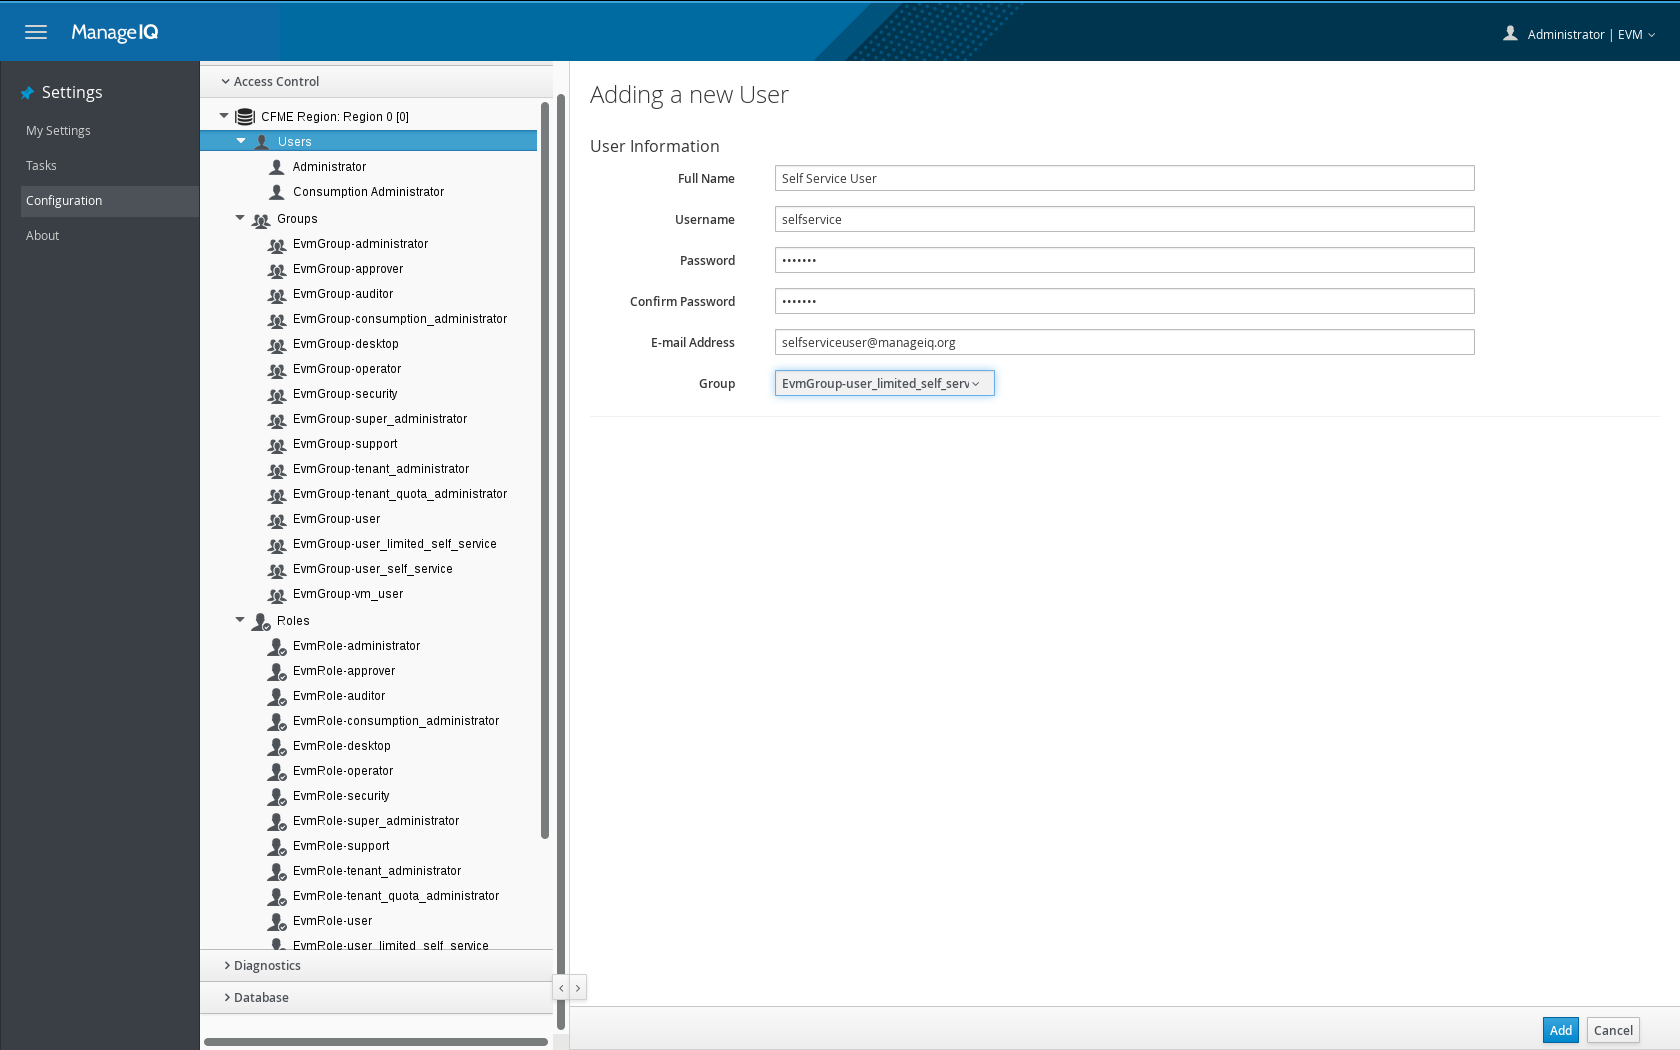
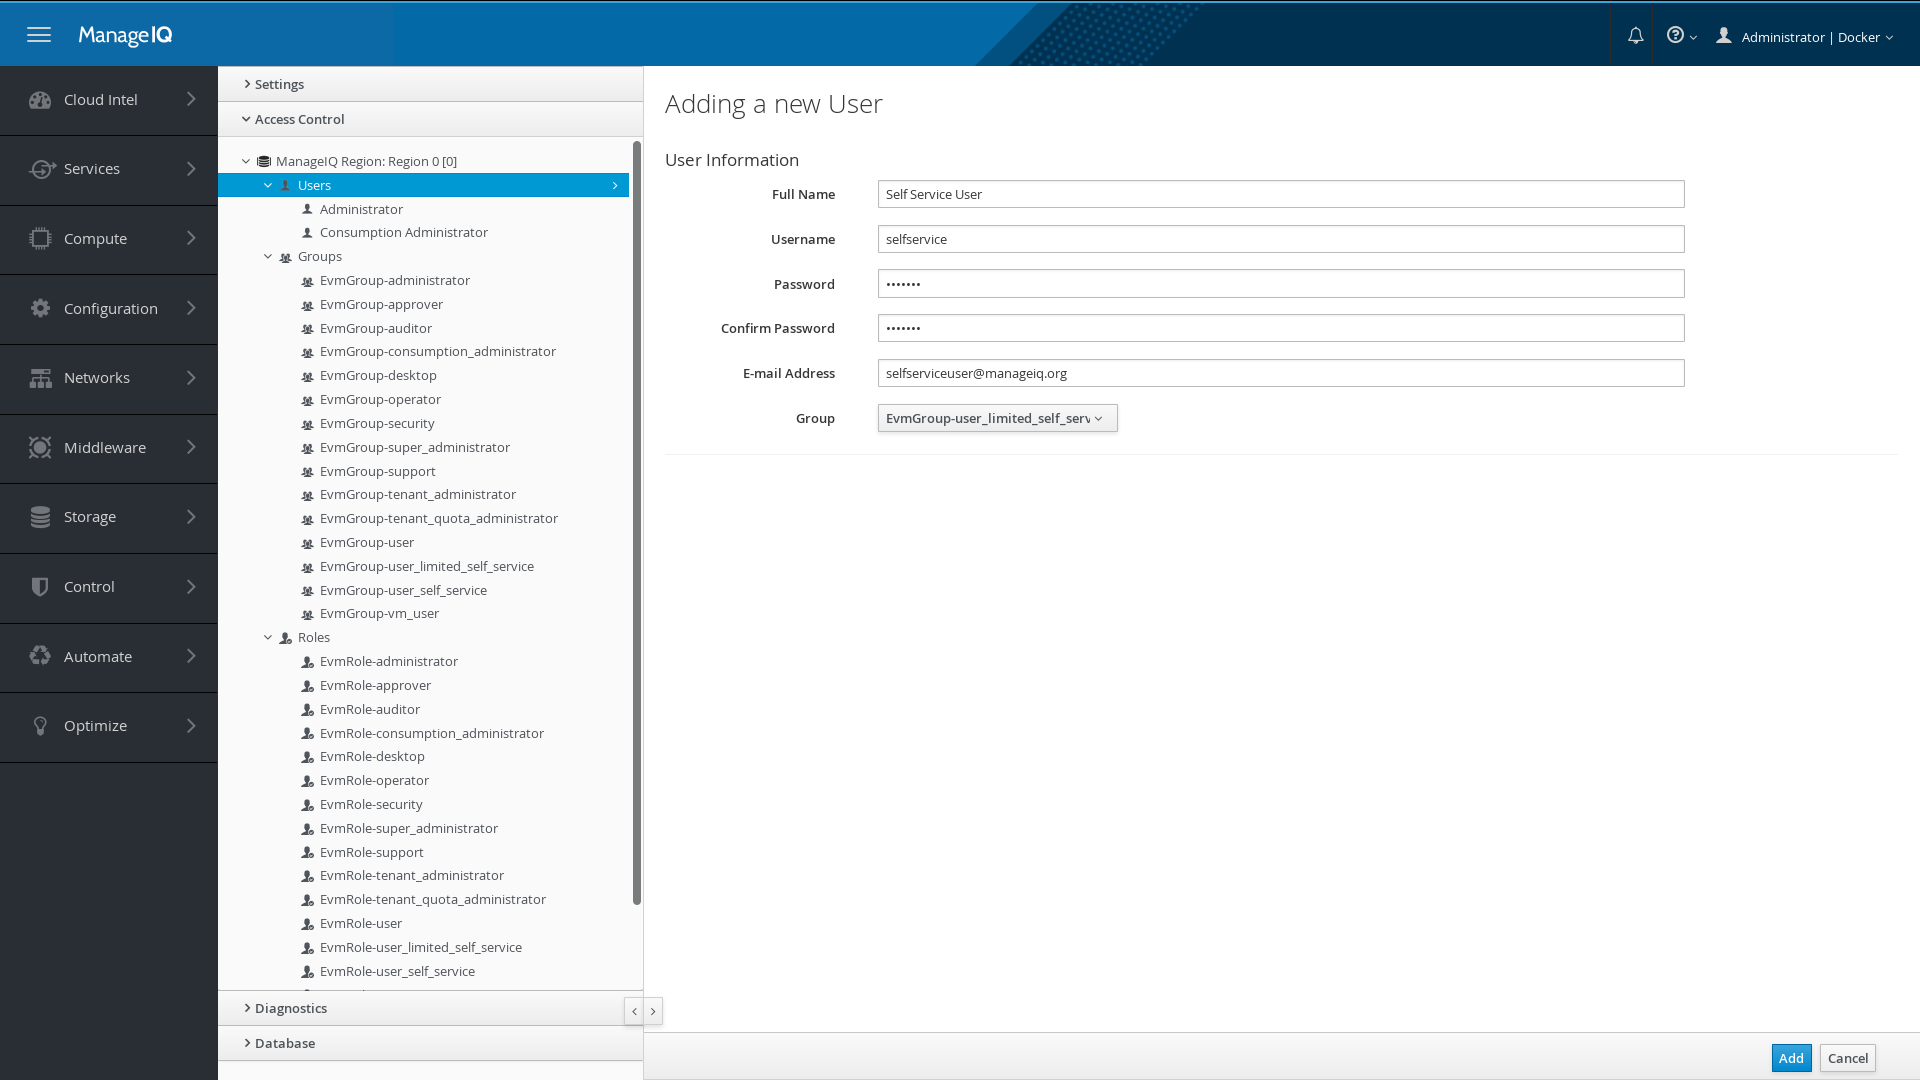
new images and self service description in guides

diff --git a/site/docs/get-started/create-service-item.md b/site/docs/get-started/create-service-item.md
@@ -3,6 +3,8 @@ layout: doc_page
 title: Create A Self-service Catalog Item
 ---
 
+## Introduction ##
+
 Go to ***Services → Catalogs***.
 
 Currently there are no catalogs, but we will be creating a new one
@@ -13,7 +15,9 @@ now. We need a few things:
 -   A catalog to show the user
 -   A catalog item within that catalog to put all together
 
-### Creating the dialog####
+## Using the service catalog to create a service ##
+
+### Creating the dialog ###
 
 Let’s start creating the dialog. Dialogs are part of Automate, so go to
 ***Automate → Customization*** and select ***Service Dialogs*** in the
@@ -26,7 +30,12 @@ Choose a name for it
 Add a Tab, a Box and a Element to your Dialog using the + symbol on a
 circle on top.
 
-### Creating a catalog####
+We will be adding a checkbox that prints "Are you sure?" with a checkbox, but we won't be doing anything with the answer...
+
+![screenshot0044](/assets/images/docs/screenshot_0044.png){:.img-responsive}
+
+
+### Creating a catalog ###
 
 You need a catalog for the user to choose from it. Let’s create a
 catalog with a basic name and description
@@ -37,13 +46,18 @@ Press ***Configuration → Add a New Catalog*** and fill the fields. As there
 are no catalog items yet, you won’t see any in the Assign Catalog Items
 tabs.
 
+![screenshot0045](/assets/images/docs/screenshot_0045.png){:.img-responsive}
+
 ### Creating a catalog item####
 
 Let’s add all together, so the user can order a service instead of doing
 a traditional provisioning.
 
 Navigate to ***Services → Catalogs*** and Select ***Catalog Items*** in the
-accordion, and within the catalog you just created
+accordion, and within it the catalog you just created
+
+![screenshot0046](/assets/images/docs/screenshot_0046.png){:.img-responsive}
+
 
 Add a new ***Configuration → Add a New Catalog Item***
 
@@ -51,21 +65,39 @@ Select * Google* as Catalog Item type and you will get a dialog to
 configure what will happen when the customer orders the item. Don’t
 forget to select Display in Catalog to be make it available.
 
+![screenshot0047](/assets/images/docs/screenshot_0047.png){:.img-responsive}
+
+
 Fill the description in details and fill ***Request Info*** with the same
 data you did in the traditional provisioning.
+
+![screenshot0048](/assets/images/docs/screenshot_0048.png){:.img-responsive}
+
 
 When finished, press ***Add***
 
 Now you will be able to see your service catalog and the item will be
 orderable within ***Service Catalogs*** in the accordion.
 
+![screenshot0049](/assets/images/docs/screenshot_0049.png){:.img-responsive}
+
+
 ### Ordering a service####
 
-We could press the ***Order*** button in the catalog, the dialog will
-appear, and after you will have your service running.
+Go to the Service catalog again. Now you can see your catalog item as part of the catalog. You can order it pressing the ***Order*** below the icon.
 
-But we can make it easier for the end user to order it, so let’s change
-to the user we created at the beginning of this guide.
+![screenshot0050](/assets/images/docs/screenshot_0050.png){:.img-responsive}
+
+A service item can consist on different elements, not only a VM, and will be triggered through a series of automation workflows. 
+The dialog we created will be used to gather information from the customer, hiding all the complexity of the details needed to actually deploy any of the components.
+
+Services has their own life cycle, as well as their components, so you can see (if your user profiles allows it), the resources associated to it in each moment
+
+Ordering consists on different phases that are outside of the scope of this guide.
+
+![screenshot0051](/assets/images/docs/screenshot_0051.png){:.img-responsive}
+
+
 
 Press ***Administrator|EVM*** in the upper right part of the screen, and
 then ***Logout.***
@@ -73,6 +105,15 @@ then ***Logout.***
 Once you are logged out, enter ***https://\[your IP ADDRESS\]\]/self\_service*** in your web browser. This is the self service
 interface, that can be used to isolate you from the nuances of the
 underlying infrastructure.
+
+![screenshot0052](/assets/images/docs/screenshot_0052.png){:.img-responsive}
+
+Self service interface allows an easier management of services and a easier design for end users than the operational interface
+![screenshot0053](/assets/images/docs/screenshot_0053.png){:.img-responsive}
+
+
+![screenshot0054](/assets/images/docs/screenshot_0054.png){:.img-responsive}
+
 
 ## Next: [Where to go from here](/docs/get-started/where-to-go-from-here)
 

diff --git a/site/docs/get-started/basic-configuration.md b/site/docs/get-started/basic-configuration.md
@@ -15,7 +15,7 @@ setting ssh keys)
     your provider to configure.
 2.  Point your browser to its IP address
 
-    1.  **Docker:** localhost (127.0.0.1)
+    1.  **Docker:** localhost (https://127.0.0.1:8443)
     2.  **Vagrant:** 172.28.128.3
 
 ![screenshot0001](/assets/images/docs/screenshot_0001.png){:.img-responsive}
@@ -65,18 +65,5 @@ Server control defines what roles each appliance executes in a
 
 #### 4. Save your changes ####
 **Press Save*** to save your changes
-
-#### 5. Create a new user ####
-
-In the accordion, ***select Access Control.***
-
-1.  You can see definitions for Users, Groups, Roles and Tenants.
-    For now, let’s create a user with limited access to
-    self-service.  
-2.    Select Users  
-3.    Click ***Configuration → Add a new User*** 
-4.    Fill all the elements in the form (***select Role *EvmRole-user\_limited\_self\_service****) and then ***press *Add***
-
-![screenshot0005](/assets/images/docs/screenshot_0006.png){:.img-responsive}
 
 ## Next: [Add A Provider](/docs/get-started/add-a-provider)

diff --git a/site/docs/get-started/index.md b/site/docs/get-started/index.md
@@ -9,16 +9,16 @@ virtual machines, public clouds and containers.
 
 With ManageIQ you will be able to:
 
-* Continuously discover the latest state of your environment.
+* **Continuously discover** the latest state of your environment.
 * Implement **self service** for your end users.
 * Enforce **compliance** across the environment.
-* Optimize the performance and utilization of you environment.
+* **Optimize** the performance and utilization of you environment.
 
 ## Following this Guide
 
 In order to follow this guide, you will need:
 
-* Somewhere to run the ManageIQ software.
+* Some place to run the ManageIQ software.
 * Something to manage.
 
 When used in production environments, ManageIQ users typically download [one of
